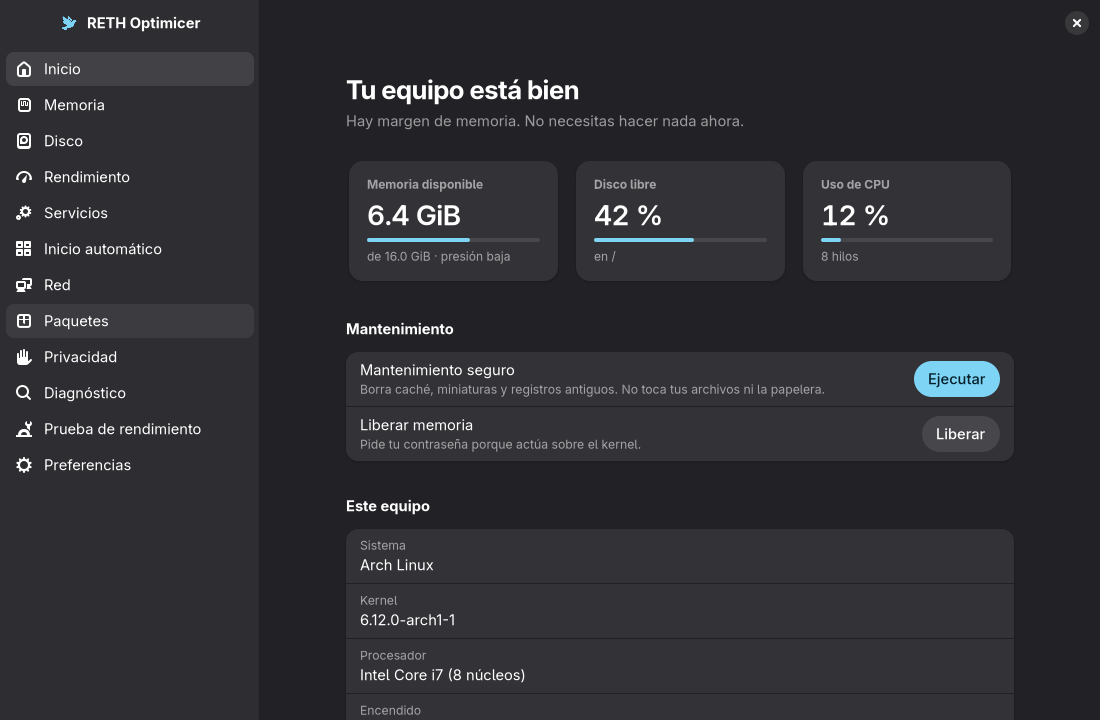
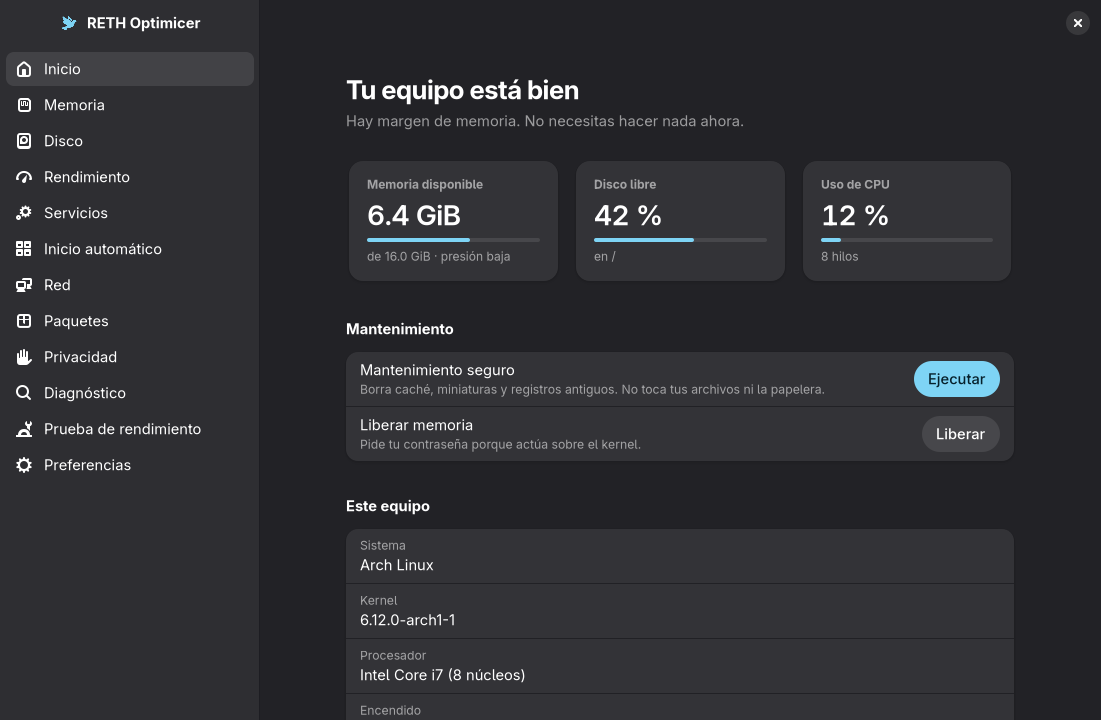
Entrega RETH: 5 capturas finales, incluida Memoria

diff --git a/entrega-reth/README.md b/entrega-reth/README.md
@@ -23,19 +23,18 @@ Windows: C# · .NET 8 · WPF (WPF-UI) — Linux: Python 3 · GTK 4 · libadwaita
 
 ## Capturas (`capturas/`)
 
-Capturas reales de la app de Linux con **datos de demostración** (procesos, servicios, DNS y equipo ficticios). Tamaño 1100×720.
+Capturas reales de la app de Linux con **datos de demostración** (procesos, servicios, DNS, autostart y equipo ficticios; los valores de Rendimiento son del kernel de pruebas y no contienen datos personales). Tamaño 1100×720.
 
 | Archivo | Pantalla |
 | --- | --- |
 | `01-inicio.png` | Inicio: estado, indicadores y mantenimiento |
-| `02-rendimiento-restaurar.png` | Rendimiento con "Óptimo" y "Restaurar" |
-| `03-servicios.png` | Servicios con interruptores |
-| `04-red-dns.png` | DNS con latencia |
-| `05-privacidad.png` | Privacidad con "Restaurar" |
+| `02-memoria.png` | Memoria: qué aplicaciones usan la RAM |
+| `03-rendimiento-restaurar.png` | Rendimiento con "Óptimo", "Aplicar" y "Restaurar" |
+| `04-servicios.png` | Servicios con interruptores |
+| `05-red-dns.png` | DNS con latencia medida |
 
 ## Pendiente (no verificado)
 
 - Capturas de Windows: no hay VM disponible; la interfaz de Windows no se revisó visualmente.
 - El código Windows de `pulido-reth` no se compiló (falta de RAM en el equipo de desarrollo); revisado a mano.
-- Captura de la pantalla Memoria: no se pudo generar (en investigación).
 - Versión inconsistente: Windows y README dicen 3.0.0; Linux (`__init__.py`) dice 3.0.1. Definir el número de la próxima versión.
